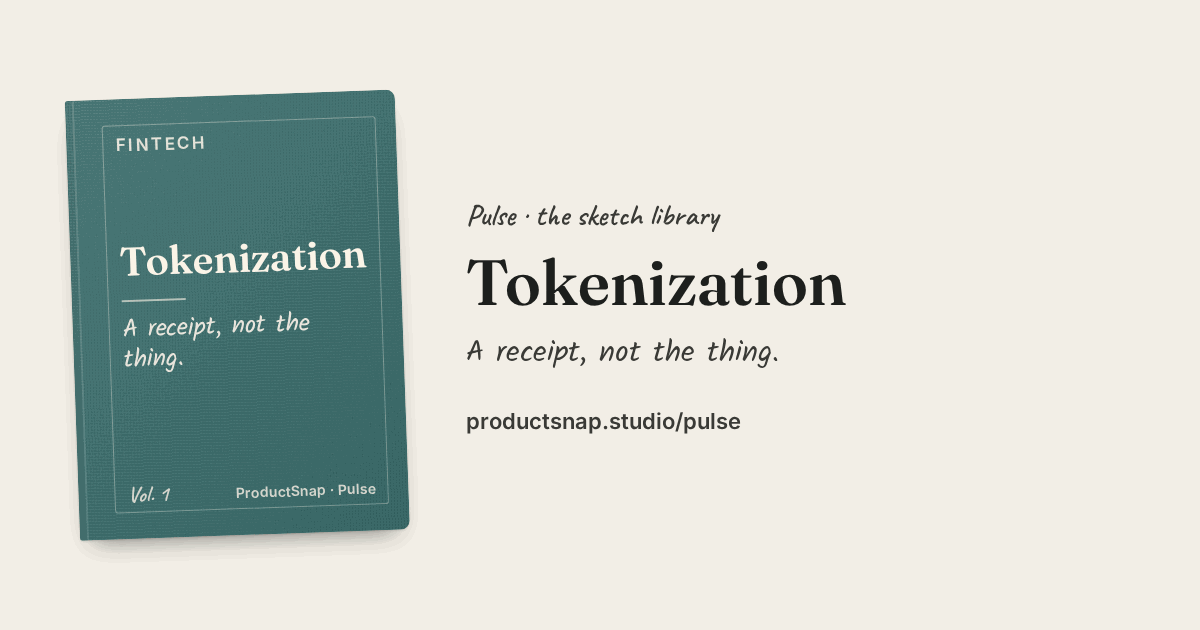
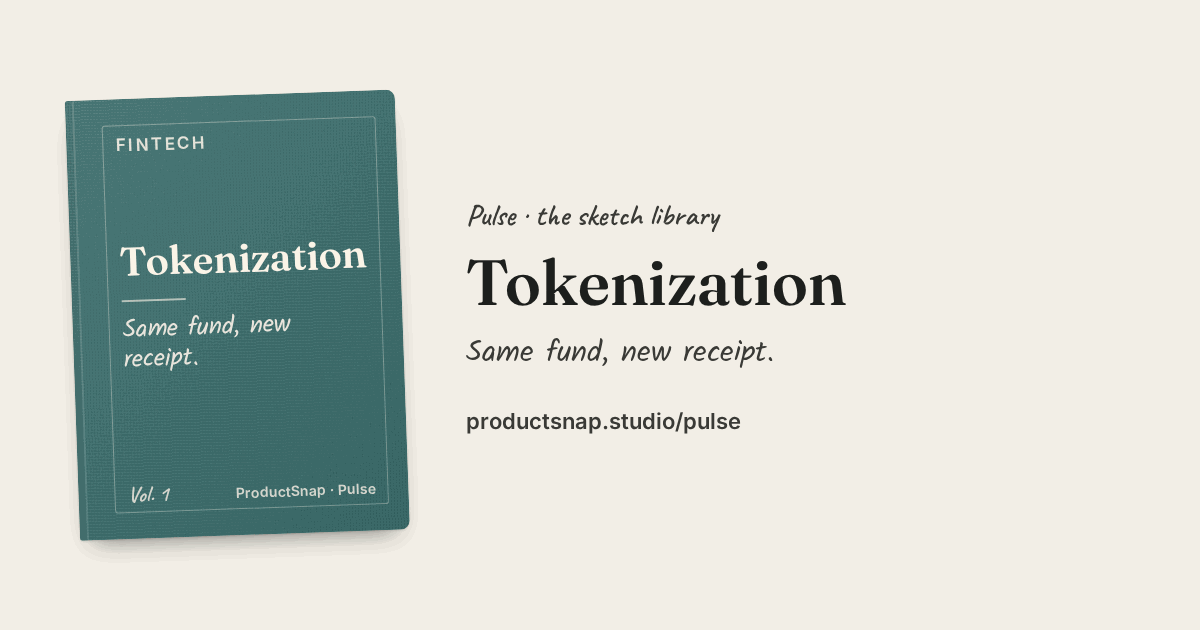
Pulse: Tokenization v3 (10 cards, Amara), same book id; BUIDL minimum dropped, DTCC 'plans to'

Changed region(s): [[0.0925, 0.4825, 0.2467, 0.6032], [0.37, 0.5429, 0.6475, 0.573]]

diff --git a/share/tokenization.html b/share/tokenization.html
@@ -2,20 +2,20 @@
 <html lang="en"><head><meta charset="utf-8" />
 <title>Tokenization — Pulse · ProductSnap Studio</title>
 <meta name="viewport" content="width=device-width, initial-scale=1" />
-<meta name="description" content="A receipt, not the thing. A token is a digital receipt for a real asset, kept in one shared notebook (a blockchain). Boring assets go first: tokenized US Treasuries are about $14.5B (as of Oct 20, 2026), and banks are tokenizing deposits. For most people it changes the plumbing, not the app; the leg" />
+<meta name="description" content="Same fund, new receipt. Tokenizing a fund changes how ownership is recorded, not what the fund holds. Big firms like BlackRock, Franklin Templeton and DTCC are trying it, mostly for large investors so far. A tokenized security is still a security: ask who keeps the record and who can fix mistakes." />
 <meta name="robots" content="noindex, follow" />
 <link rel="canonical" href="https://productsnap.studio/pulse#book/tokenization/1" />
 <meta property="og:type" content="book" />
 <meta property="og:site_name" content="ProductSnap Studio" />
 <meta property="og:title" content="Tokenization — a Pulse sketch book" />
-<meta property="og:description" content="A receipt, not the thing. A token is a digital receipt for a real asset, kept in one shared notebook (a blockchain). Boring assets go first: tokenized US Treasuries are about $14.5B (as of Oct 20, 2026), and banks are tokenizing deposits. For most people it changes the plumbing, not the app; the leg" />
+<meta property="og:description" content="Same fund, new receipt. Tokenizing a fund changes how ownership is recorded, not what the fund holds. Big firms like BlackRock, Franklin Templeton and DTCC are trying it, mostly for large investors so far. A tokenized security is still a security: ask who keeps the record and who can fix mistakes." />
 <meta property="og:url" content="https://productsnap.studio/share/tokenization.html" />
 <meta property="og:image" content="https://productsnap.studio/assets/pulse/og/tokenization.png" />
 <meta property="og:image:width" content="1200" /><meta property="og:image:height" content="630" />
-<meta property="og:image:alt" content="Cover of Tokenization: A receipt, not the thing." />
+<meta property="og:image:alt" content="Cover of Tokenization: Same fund, new receipt." />
 <meta name="twitter:card" content="summary_large_image" />
 <meta name="twitter:title" content="Tokenization — a Pulse sketch book" />
-<meta name="twitter:description" content="A receipt, not the thing. A token is a digital receipt for a real asset, kept in one shared notebook (a blockchain). Boring assets go first: tokenized US Treasuries are about $14.5B (as of Oct 20, 2026), and banks are tokenizing deposits. For most people it changes the plumbing, not the app; the leg" />
+<meta name="twitter:description" content="Same fund, new receipt. Tokenizing a fund changes how ownership is recorded, not what the fund holds. Big firms like BlackRock, Franklin Templeton and DTCC are trying it, mostly for large investors so far. A tokenized security is still a security: ask who keeps the record and who can fix mistakes." />
 <meta name="twitter:image" content="https://productsnap.studio/assets/pulse/og/tokenization.png" />
 <meta http-equiv="refresh" content="0; url=../pulse.html#book/tokenization/1" />
 <script>
